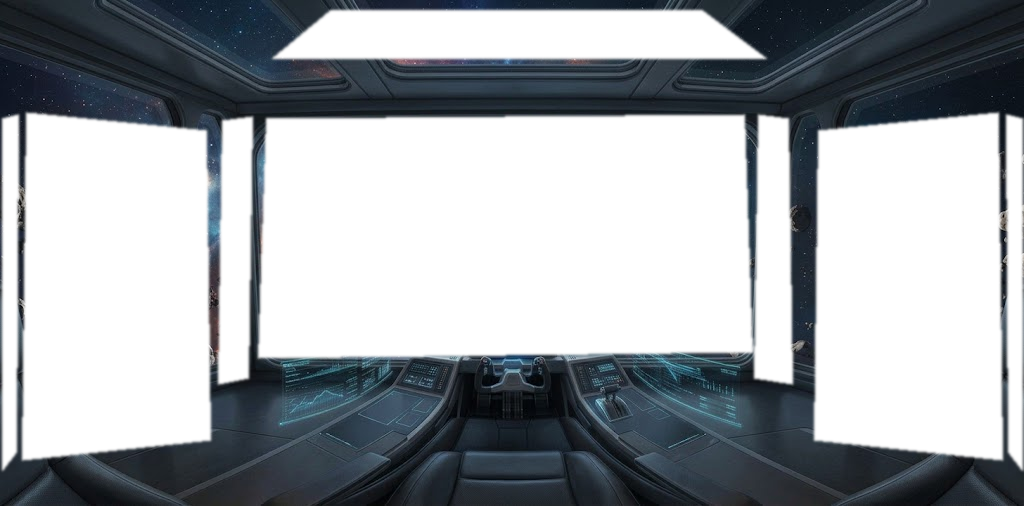
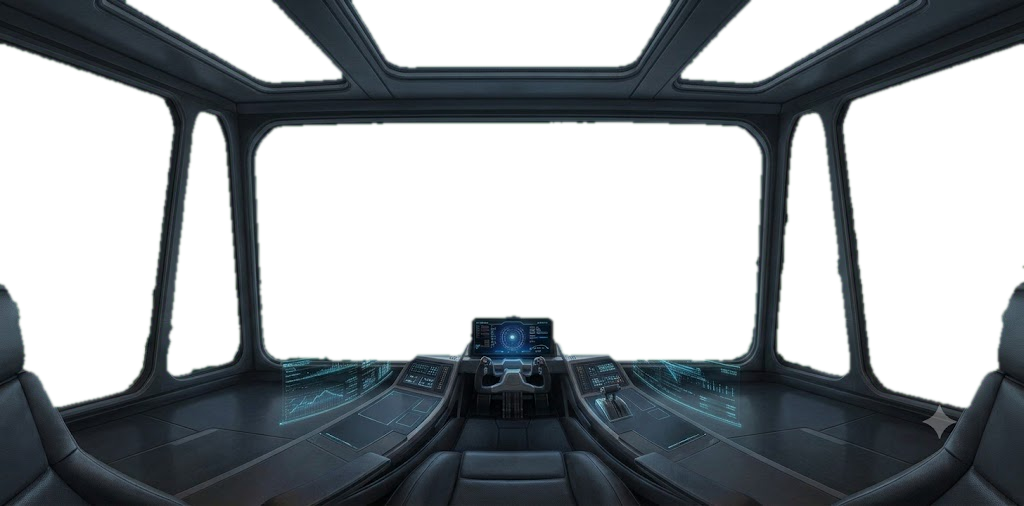
Green-screen cockpit: pixel-perfect HELM view
Matt's Grok green-screen render chroma-keyed into an exact cockpit overlay —
every pane cut precisely to its frame. HELM is the default landscape view
(VISOR and CHASE on the cycle button).

Changed region(s): [[0.0, 0.0889, 1.0, 0.919], [0.125, 0.0, 0.875, 0.1779], [0.3125, 0.6225, 0.5625, 0.7411]]

diff --git a/RealTime Fidget/ContentView.swift b/RealTime Fidget/ContentView.swift
@@ -21,7 +21,7 @@ struct ContentView: View {
     @State private var isWarping = false
     @State private var showSplash = true
     @State private var showCredits = false
-    @State private var viewMode = "visor"   // visor (clean, default) | helm (cockpit art) | chase
+    @State private var viewMode = "helm"   // helm (cockpit, default) | visor (clean) | chase
 
     let joystickRadius: CGFloat = 60
 

diff --git a/codex/Cockpit.js b/codex/Cockpit.js
@@ -33,7 +33,7 @@
       // its vote — setVisible only affects the current session (⋯ toggle still
       // works while the app is open).
       this.on = true;
-      this.forceHidden = true;   // default view is VISOR (clean) — HELM enables the art
+      this.forceHidden = false;  // HELM default — the green-screen key made the cockpit exact
       window.addEventListener('resize', () => this._apply());
       this._apply();
     }